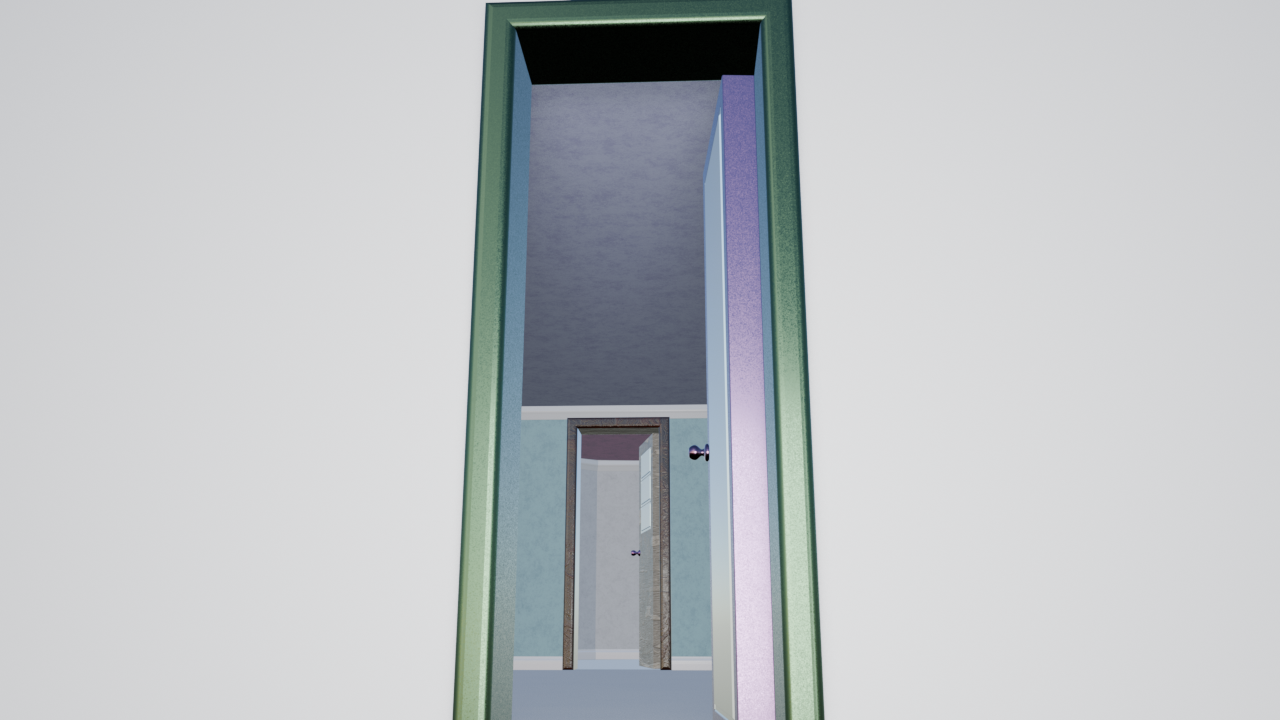
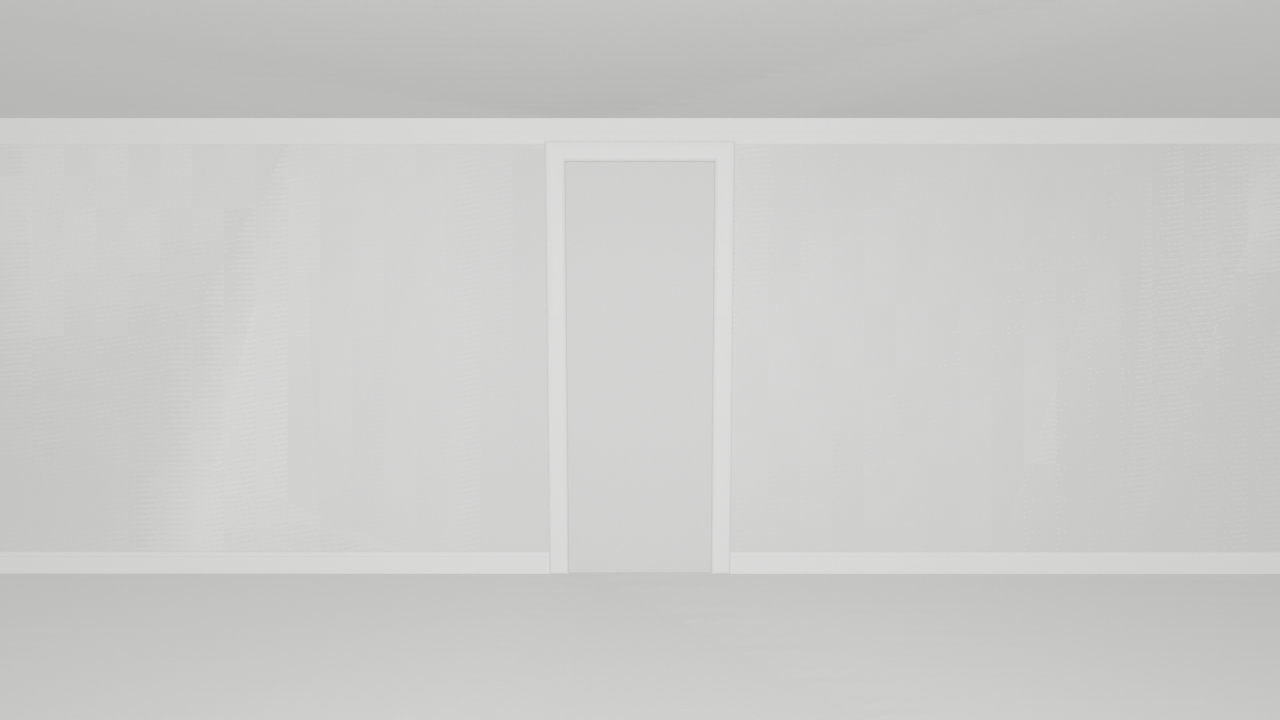
docs(room): publish after-simplify still for seed 7 doorway
Simplify measured on this rebuild: locked 162648 to 101702, shell 6336 to 3205, 8.6MB to 1.3MB.
EEVEE 1280x720 render of simplified GLB: casing still frames doorway, wall still a wall.

diff --git a/docs/progress.html b/docs/progress.html
@@ -33,7 +33,7 @@
           <h2>Clinic lighting came off a white clip. One generated room has a rug, a baseboard, a door, and a window.</h2>
         </div>
         <p>
-          Two separate pieces of evidence. The floor and wall images are packed texture atlases from the primary-care clinic file, not a photograph of a room. The black rectangles are unused texture space. The interior still is a rebuilt Infinigen generate, seed 7, furniture off, rendered with EEVEE Next at 1280&times;720. The casing is wider than the first still, and the near wall is plaster. That still is before the simplify step.
+          Two separate pieces of evidence. The floor and wall images are packed texture atlases from the primary-care clinic file, not a photograph of a room. The black rectangles are unused texture space. The interior still is a rebuilt Infinigen generate, seed 7, furniture off, rendered with EEVEE Next at 1280&times;720. The casing is wider than the first still, and the near wall is plaster. That still is AFTER the simplify step: skirting and openings 162,648 to 101,702 triangles, walls and floors 6,336 to 3,205, file 8.6 MB to 1.3 MB.
         </p>
         <div class="metric-table-wrap">
           <table class="metric-table">
@@ -68,11 +68,11 @@
           </figure>
         </div>
         <figure style="margin:16px 0 0; border:1px solid var(--line); border-radius:6px; overflow:hidden; background:#1a2620;">
-          <img src="assets/room-carpet-trim-seed7-2026-09-22.png" alt="Rebuilt seed 7 doorway at native 1280 by 720: a green casing frames the opening, the near wall is plaster, and a second door with its own frame sits beyond." style="width:100%; height:auto; display:block;">
-          <figcaption style="padding:8px 10px; font-size:0.78rem; color:var(--muted); border-top:1px solid var(--line);">Rebuild, native 1280&times;720. The casing is 11 cm wide and stands proud of the wall, so the frame around the opening is visible. The near wall is plaster, not tile. A second door and a baseboard are visible through the opening. This crop does not show the rug.</figcaption>
+          <img src="assets/room-carpet-trim-seed7-2026-09-22.png" alt="Simplified seed 7 room at native 1280 by 720: the casing frames the doorway, skirting runs along the wall base, and the wall is a wall. Geometry after the simplify step." style="width:100%; height:auto; display:block;">
+          <figcaption style="padding:8px 10px; font-size:0.78rem; color:var(--muted); border-top:1px solid var(--line);">After simplify, native 1280&times;720. Skirting and openings 162,648 to 101,702 triangles, walls and floors 6,336 to 3,205. The casing still frames the doorway and the wall is still a wall. GLB export drops the wall and floor materials, so this crop renders white on white. This crop does not show the rug.</figcaption>
         </figure>
         <p>
-          After that generate, the room station simplify (commit <code>cd1fb13fb</code>) ran on a copy: skirting and openings 158,700 to 99,116 triangles, walls and floors 6,336 to 3,197, file 8.4 MB to 1.4 MB. The largest casing cube stayed near 15,000 triangles. There is no second still of the simplified mesh.
+          After that generate, the room station simplify (commit <code>cd1fb13fb</code>) ran on a copy: skirting and openings 162,648 to 101,702 triangles, walls and floors 6,336 to 3,205, file 8.6 MB to 1.3 MB. The largest casing cube stayed near 15,000 triangles. The still above is that simplified mesh.
         </p>
         <p class="evidence-note">
           Lighting commits <code>d1f63490b</code> and <code>9d4736e00</code>. Simplify commit <code>cd1fb13fb</code>. Learner file <code>infinigen-primary-care-clinic.glb</code> sha256 <code>9e1973038b17d018cc114c3ac84ce7a9fe5da870416cd39480c45c8a010bb1e0</code>, unchanged.

diff --git a/docs/index.html b/docs/index.html
@@ -258,9 +258,9 @@
           Public copy here is a snapshot for humans—updated when the product story actually moves.
         </p>
         <figure style="margin:20px 0 0; border:1px solid var(--line); border-radius:6px; overflow:hidden; background:#1a2620; max-width:960px;">
-          <img src="assets/room-carpet-trim-seed7-2026-09-22.png" alt="Rebuilt seed 7 doorway: a casing frames the opening and the near wall is plaster. Native 1280 by 720." style="width:100%; height:auto; display:block;">
+          <img src="assets/room-carpet-trim-seed7-2026-09-22.png" alt="Simplified seed 7 room: the casing frames the doorway and the wall is a wall. Native 1280 by 720." style="width:100%; height:auto; display:block;">
           <figcaption style="padding:8px 10px; font-size:0.85rem; color:var(--muted); border-top:1px solid var(--line);">
-            22 September 2026, rebuilt. The door opening has a visible casing and the near wall is plaster.
+            22 September 2026, after simplify. Skirting and openings 162,648 to 101,702 triangles, walls and floors 6,336 to 3,205.
             The clinic file a learner loads was not replaced.
             <a href="progress.html#entry-2026-09-22T2223">Progress log entry 112</a>
             has the lighting pair and the triangle counts.
